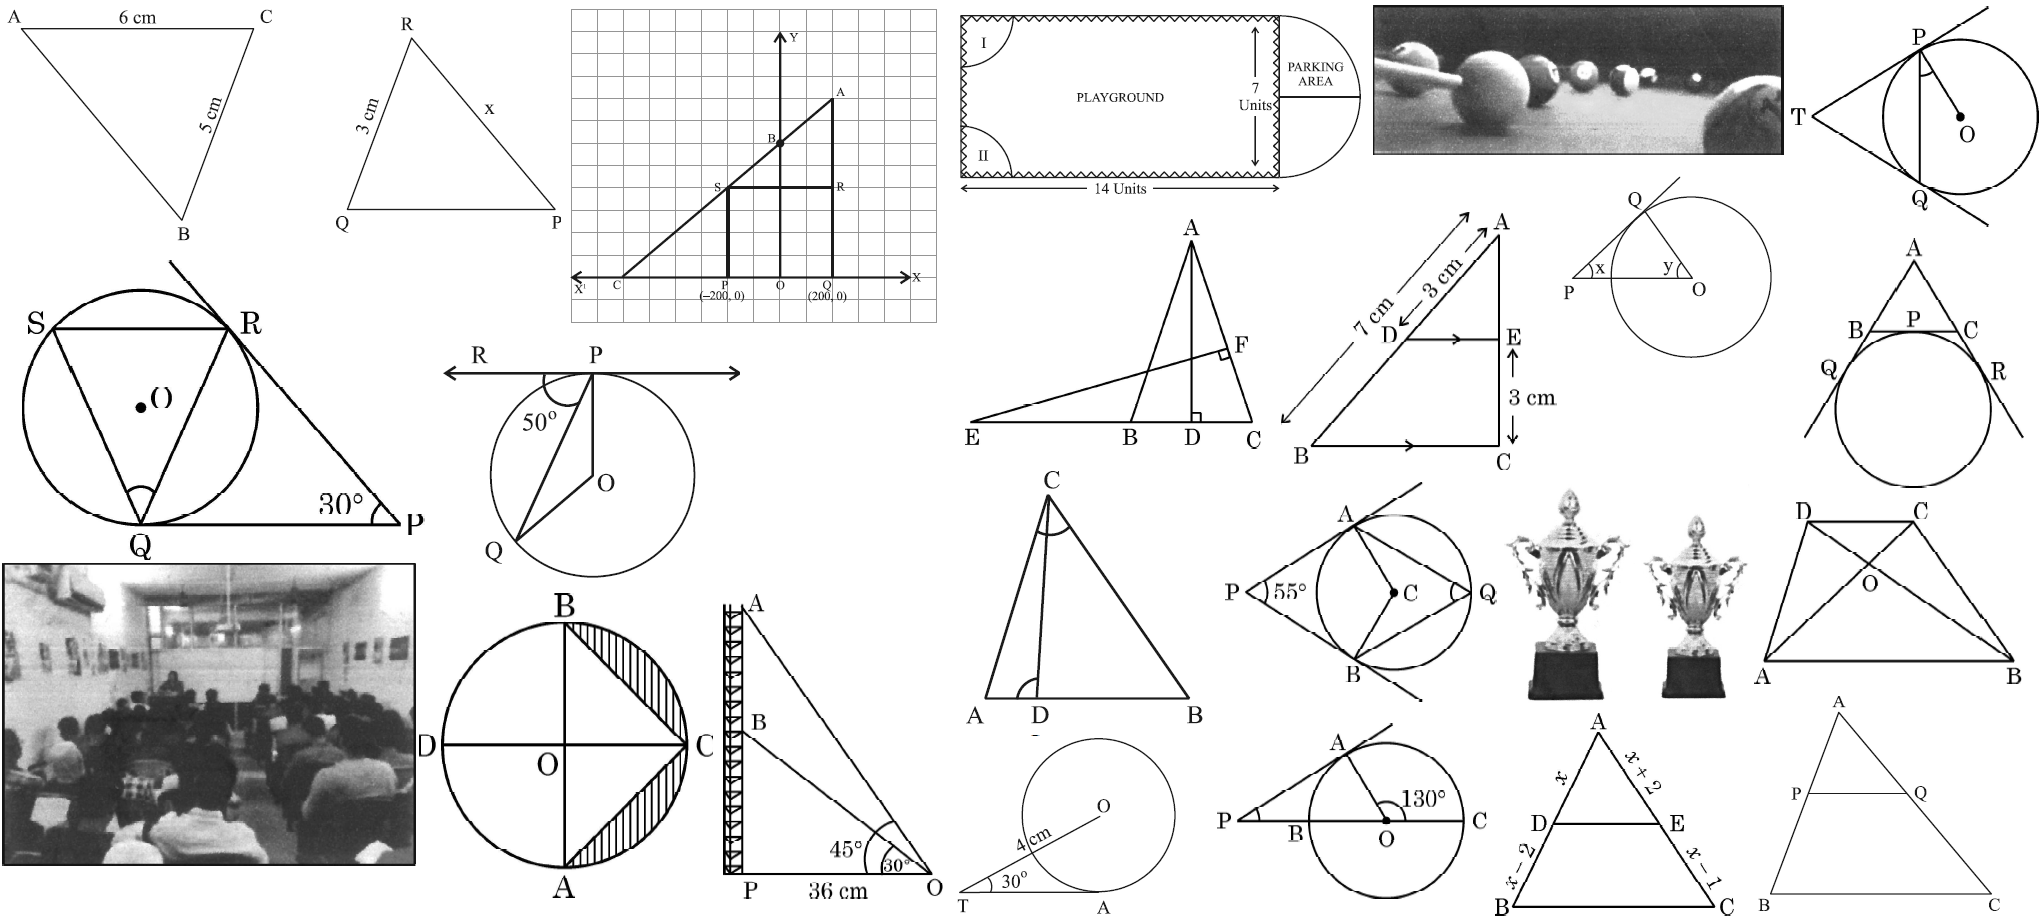
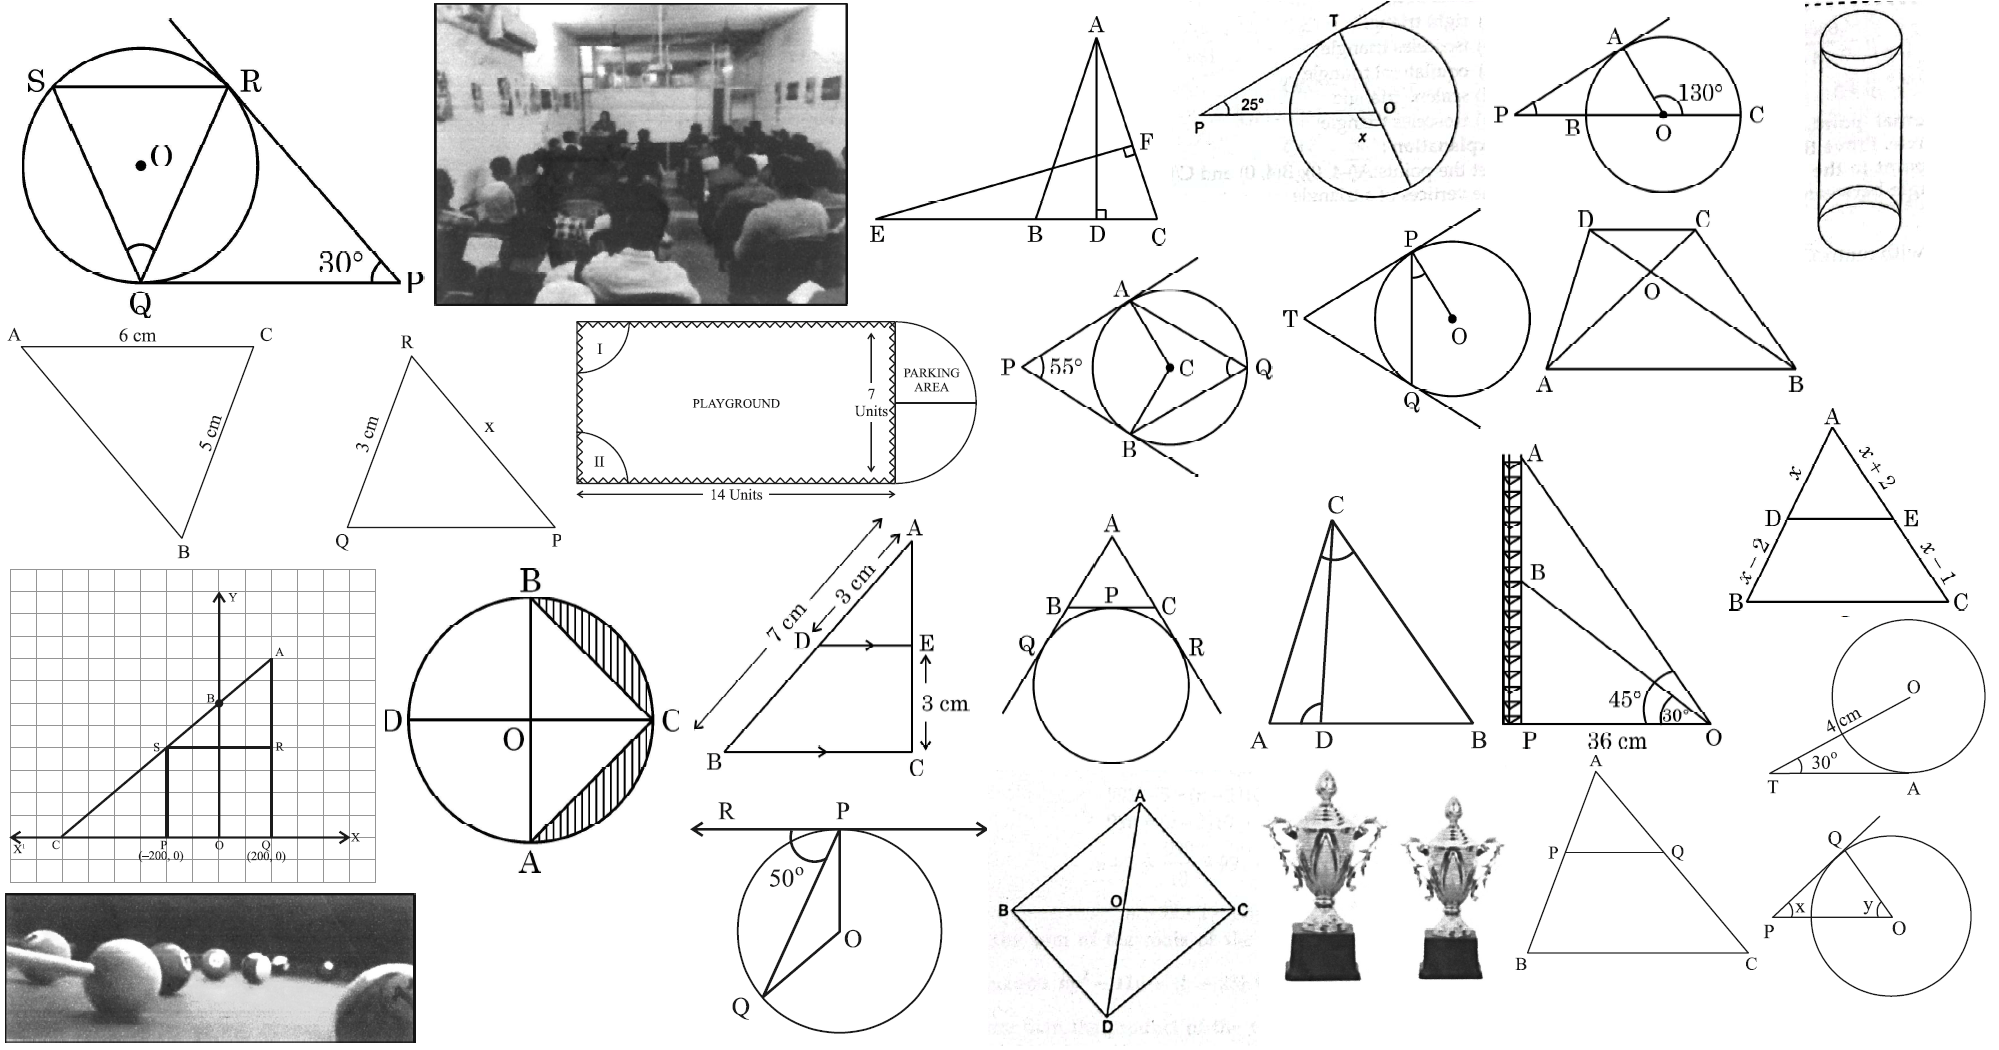
Fixed

diff --git a/img/cbse/previous/class10/maths/cbse_x_2023.css b/img/cbse/previous/class10/maths/cbse_x_2023.css
@@ -8,70 +8,79 @@ Responsive: <div class="yourspritesname"></div>
 
 
 .cbse_cl_10_mt_2023_ai_s1_10 {max-width:292px; max-height:274px; }
-.cbse_cl_10_mt_2023_ai_s1_10::after {content: '\00a0';display: inline-block; width:292px; height:274px; background-position: 72.44139508290452% 31.53013910355487%;background-size: 698.972602739726% 336.13138686131384%;background-image: url(cbse_x_2023.png);padding: 0; }
+.cbse_cl_10_mt_2023_ai_s1_10::after {content: '\00a0';display: inline-block; width:292px; height:274px; background-position: 39.835969537199766% 65.72164948453609%;background-size: 684.5890410958904% 383.2116788321168%;background-image: url(cbse_x_2023.png);padding: 0; }
 div.cbse_cl_10_mt_2023_ai_s1_10::after {max-width:292px; width:100%;height:0;padding: 0 0 93.83561643835617% 0;}
 .cbse_cl_10_mt_2023_ai_s1_14 {max-width:293px; max-height:227px; }
-.cbse_cl_10_mt_2023_ai_s1_14::after {content: '\00a0';display: inline-block; width:293px; height:227px; background-position: 69.16475972540046% 69.02017291066282%;background-size: 696.5870307167236% 405.726872246696%;background-image: url(cbse_x_2023.png);padding: 0; }
+.cbse_cl_10_mt_2023_ai_s1_14::after {content: '\00a0';display: inline-block; width:293px; height:227px; background-position: 57.737397420867524% 30.86269744835966%;background-size: 682.2525597269624% 462.55506607929516%;background-image: url(cbse_x_2023.png);padding: 0; }
 div.cbse_cl_10_mt_2023_ai_s1_14::after {max-width:293px; width:100%;height:0;padding: 0 0 77.47440273037543% 0;}
 .cbse_cl_10_mt_2023_ai_s1_24 {max-width:285px; max-height:200px; }
-.cbse_cl_10_mt_2023_ai_s1_24::after {content: '\00a0';display: inline-block; width:285px; height:200px; background-position: 68.84965831435079% 98.05825242718447%;background-size: 716.140350877193% 460.5%;background-image: url(cbse_x_2023.png);padding: 0; }
+.cbse_cl_10_mt_2023_ai_s1_24::after {content: '\00a0';display: inline-block; width:285px; height:200px; background-position: 86.69778296382731% 0.11764705882352941%;background-size: 701.4035087719299% 525%;background-image: url(cbse_x_2023.png);padding: 0; }
 div.cbse_cl_10_mt_2023_ai_s1_24::after {max-width:285px; width:100%;height:0;padding: 0 0 70.17543859649123% 0;}
 .cbse_cl_10_mt_2023_ai_s1_25_a {max-width:241px; max-height:211px; }
-.cbse_cl_10_mt_2023_ai_s1_25_a::after {content: '\00a0';display: inline-block; width:241px; height:211px; background-position: 83.05555555555556% 99.85915492957747%;background-size: 846.8879668049792% 436.49289099526067%;background-image: url(cbse_x_2023.png);padding: 0; }
+.cbse_cl_10_mt_2023_ai_s1_25_a::after {content: '\00a0';display: inline-block; width:241px; height:211px; background-position: 98.35039817974972% 48.152562574493444%;background-size: 829.4605809128631% 497.6303317535545%;background-image: url(cbse_x_2023.png);padding: 0; }
 div.cbse_cl_10_mt_2023_ai_s1_25_a::after {max-width:241px; width:100%;height:0;padding: 0 0 87.55186721991701% 0;}
 .cbse_cl_10_mt_2023_ai_s1_25_b {max-width:271px; max-height:201px; }
-.cbse_cl_10_mt_2023_ai_s1_25_b::after {content: '\00a0';display: inline-block; width:271px; height:201px; background-position: 98.92655367231639% 68.61111111111111%;background-size: 753.1365313653137% 458.2089552238806%;background-image: url(cbse_x_2023.png);padding: 0; }
+.cbse_cl_10_mt_2023_ai_s1_25_b::after {content: '\00a0';display: inline-block; width:271px; height:201px; background-position: 88.71527777777777% 23.792697290930505%;background-size: 737.6383763837638% 522.3880597014926%;background-image: url(cbse_x_2023.png);padding: 0; }
 div.cbse_cl_10_mt_2023_ai_s1_25_b::after {max-width:271px; width:100%;height:0;padding: 0 0 74.16974169741698% 0;}
 .cbse_cl_10_mt_2023_ai_s1_28 {max-width:320px; max-height:252px; }
-.cbse_cl_10_mt_2023_ai_s1_28::after {content: '\00a0';display: inline-block; width:320px; height:252px; background-position: 54.96804183614178% 30.493273542600896%;background-size: 637.8125% 365.4761904761905%;background-image: url(cbse_x_2023.png);padding: 0; }
+.cbse_cl_10_mt_2023_ai_s1_28::after {content: '\00a0';display: inline-block; width:320px; height:252px; background-position: 50.68493150684932% 0.12531328320802004%;background-size: 624.6875% 416.6666666666667%;background-image: url(cbse_x_2023.png);padding: 0; }
 div.cbse_cl_10_mt_2023_ai_s1_28::after {max-width:320px; width:100%;height:0;padding: 0 0 78.75% 0;}
 .cbse_cl_10_mt_2023_ai_s1_32_a {max-width:253px; max-height:232px; }
-.cbse_cl_10_mt_2023_ai_s1_32_a::after {content: '\00a0';display: inline-block; width:253px; height:232px; background-position: 99.9440715883669% 0.14513788098693758%;background-size: 806.7193675889328% 396.98275862068965%;background-image: url(cbse_x_2023.png);padding: 0; }
+.cbse_cl_10_mt_2023_ai_s1_32_a::after {content: '\00a0';display: inline-block; width:253px; height:232px; background-position: 73.25315005727377% 24.816625916870414%;background-size: 790.1185770750989% 452.58620689655174%;background-image: url(cbse_x_2023.png);padding: 0; }
 div.cbse_cl_10_mt_2023_ai_s1_32_a::after {max-width:253px; width:100%;height:0;padding: 0 0 91.699604743083% 0;}
 .cbse_cl_10_mt_2023_ai_s1_32_b {max-width:260px; max-height:259px; }
-.cbse_cl_10_mt_2023_ai_s1_32_b::after {content: '\00a0';display: inline-block; width:260px; height:259px; background-position: 99.66311061201573% 35.34743202416919%;background-size: 785% 355.5984555984556%;background-image: url(cbse_x_2023.png);padding: 0; }
+.cbse_cl_10_mt_2023_ai_s1_32_b::after {content: '\00a0';display: inline-block; width:260px; height:259px; background-position: 55.951696377228295% 64.47534766118837%;background-size: 768.8461538461538% 405.4054054054054%;background-image: url(cbse_x_2023.png);padding: 0; }
 div.cbse_cl_10_mt_2023_ai_s1_32_b::after {max-width:260px; width:100%;height:0;padding: 0 0 99.61538461538461% 0;}
 .cbse_cl_10_mt_2023_ai_s1_36 {max-width:417px; max-height:305px; }
-.cbse_cl_10_mt_2023_ai_s1_36::after {content: '\00a0';display: inline-block; width:417px; height:305px; background-position: 0.06157635467980296% 91.07142857142857%;background-size: 489.4484412470024% 301.9672131147541%;background-image: url(cbse_x_2023.png);padding: 0; }
+.cbse_cl_10_mt_2023_ai_s1_36::after {content: '\00a0';display: inline-block; width:417px; height:305px; background-position: 27.370417193426043% 0.1342281879194631%;background-size: 479.3764988009592% 344.26229508196724%;background-image: url(cbse_x_2023.png);padding: 0; }
 div.cbse_cl_10_mt_2023_ai_s1_36::after {max-width:417px; width:100%;height:0;padding: 0 0 73.14148681055156% 0;}
 .cbse_cl_10_mt_2023_ai_s1_37 {max-width:235px; max-height:318px; }
-.cbse_cl_10_mt_2023_ai_s1_37::after {content: '\00a0';display: inline-block; width:235px; height:318px; background-position: 39.53488372093023% 97.18076285240464%;background-size: 868.5106382978723% 289.62264150943395%;background-image: url(cbse_x_2023.png);padding: 0; }
+.cbse_cl_10_mt_2023_ai_s1_37::after {content: '\00a0';display: inline-block; width:235px; height:318px; background-position: 84.63718820861678% 59.56284153005465%;background-size: 850.6382978723404% 330.188679245283%;background-image: url(cbse_x_2023.png);padding: 0; }
 div.cbse_cl_10_mt_2023_ai_s1_37::after {max-width:235px; width:100%;height:0;padding: 0 0 135.31914893617022% 0;}
 .cbse_cl_10_mt_2023_ai_s1_38 {max-width:417px; max-height:160px; }
-.cbse_cl_10_mt_2023_ai_s1_38::after {content: '\00a0';display: inline-block; width:417px; height:160px; background-position: 84.29802955665025% 0.1314060446780552%;background-size: 489.4484412470024% 575.625%;background-image: url(cbse_x_2023.png);padding: 0; }
+.cbse_cl_10_mt_2023_ai_s1_38::after {content: '\00a0';display: inline-block; width:417px; height:160px; background-position: 0.0632111251580278% 99.88764044943821%;background-size: 479.3764988009592% 656.25%;background-image: url(cbse_x_2023.png);padding: 0; }
 div.cbse_cl_10_mt_2023_ai_s1_38::after {max-width:417px; width:100%;height:0;padding: 0 0 38.36930455635492% 0;}
 .cbse_cl_10_mt_2023_ai_s2_8 {max-width:294px; max-height:315px; }
-.cbse_cl_10_mt_2023_ai_s2_8::after {content: '\00a0';display: inline-block; width:294px; height:315px; background-position: 23.983972524327417% 96.6996699669967%;background-size: 694.2176870748299% 292.3809523809524%;background-image: url(cbse_x_2023.png);padding: 0; }
+.cbse_cl_10_mt_2023_ai_s2_8::after {content: '\00a0';display: inline-block; width:294px; height:315px; background-position: 22.580645161290324% 76.3265306122449%;background-size: 679.9319727891157% 333.3333333333333%;background-image: url(cbse_x_2023.png);padding: 0; }
 div.cbse_cl_10_mt_2023_ai_s2_8::after {max-width:294px; width:100%;height:0;padding: 0 0 107.14285714285714% 0;}
 .cbse_cl_10_mt_2023_ai_s3_11 {max-width:431px; max-height:317px; }
-.cbse_cl_10_mt_2023_ai_s3_11::after {content: '\00a0';display: inline-block; width:431px; height:317px; background-position: 0.062111801242236024% 40.2317880794702%;background-size: 473.54988399071925% 290.5362776025237%;background-image: url(cbse_x_2023.png);padding: 0; }
+.cbse_cl_10_mt_2023_ai_s3_11::after {content: '\00a0';display: inline-block; width:431px; height:317px; background-position: 0.06377551020408163% 0.1364256480218281%;background-size: 463.8051044083527% 331.2302839116719%;background-image: url(cbse_x_2023.png);padding: 0; }
 div.cbse_cl_10_mt_2023_ai_s3_11::after {max-width:431px; width:100%;height:0;padding: 0 0 73.54988399071925% 0;}
 .cbse_cl_10_mt_2023_dl_s1_12 {max-width:560px; max-height:241px; }
-.cbse_cl_10_mt_2023_dl_s1_12::after {content: '\00a0';display: inline-block; width:560px; height:241px; background-position: 0.0675219446320054% 0.14705882352941177%;background-size: 364.4642857142857% 382.15767634854774%;background-image: url(cbse_x_2023.png);padding: 0; }
+.cbse_cl_10_mt_2023_dl_s1_12::after {content: '\00a0';display: inline-block; width:560px; height:241px; background-position: 0.06949270326615706% 39.431396786155744%;background-size: 356.9642857142857% 435.6846473029046%;background-image: url(cbse_x_2023.png);padding: 0; }
 div.cbse_cl_10_mt_2023_dl_s1_12::after {max-width:560px; width:100%;height:0;padding: 0 0 43.035714285714285% 0;}
 .cbse_cl_10_mt_2023_dl_s1_14 {max-width:214px; max-height:201px; }
-.cbse_cl_10_mt_2023_dl_s1_14::after {content: '\00a0';display: inline-block; width:214px; height:201px; background-position: 85.38587848932677% 22.5%;background-size: 953.7383177570093% 458.2089552238806%;background-image: url(cbse_x_2023.png);padding: 0; }
+.cbse_cl_10_mt_2023_dl_s1_14::after {content: '\00a0';display: inline-block; width:214px; height:201px; background-position: 98.59943977591037% 94.34628975265018%;background-size: 934.1121495327103% 522.3880597014926%;background-image: url(cbse_x_2023.png);padding: 0; }
 div.cbse_cl_10_mt_2023_dl_s1_14::after {max-width:214px; width:100%;height:0;padding: 0 0 93.92523364485982% 0;}
 .cbse_cl_10_mt_2023_dl_s1_15 {max-width:238px; max-height:184px; }
-.cbse_cl_10_mt_2023_dl_s1_15::after {content: '\00a0';display: inline-block; width:238px; height:184px; background-position: 52.689961175818084% 99.72862957937585%;background-size: 857.563025210084% 500.54347826086956%;background-image: url(cbse_x_2023.png);padding: 0; }
+.cbse_cl_10_mt_2023_dl_s1_15::after {content: '\00a0';display: inline-block; width:238px; height:184px; background-position: 99.94321408290745% 71.13163972286374%;background-size: 839.9159663865546% 570.6521739130435%;background-image: url(cbse_x_2023.png);padding: 0; }
 div.cbse_cl_10_mt_2023_dl_s1_15::after {max-width:238px; width:100%;height:0;padding: 0 0 77.3109243697479% 0;}
 .cbse_cl_10_mt_2023_dl_s1_16 {max-width:251px; max-height:217px; }
-.cbse_cl_10_mt_2023_dl_s1_16::after {content: '\00a0';display: inline-block; width:251px; height:217px; background-position: 97.82122905027933% 98.86363636363636%;background-size: 813.1474103585657% 424.42396313364054%;background-image: url(cbse_x_2023.png);padding: 0; }
+.cbse_cl_10_mt_2023_dl_s1_16::after {content: '\00a0';display: inline-block; width:251px; height:217px; background-position: 86.2700228832952% 90.63625450180072%;background-size: 796.4143426294821% 483.8709677419355%;background-image: url(cbse_x_2023.png);padding: 0; }
 div.cbse_cl_10_mt_2023_dl_s1_16::after {max-width:251px; width:100%;height:0;padding: 0 0 86.45418326693228% 0;}
 .cbse_cl_10_mt_2023_dl_s1_36 {max-width:247px; max-height:229px; }
-.cbse_cl_10_mt_2023_dl_s1_36::after {content: '\00a0';display: inline-block; width:247px; height:229px; background-position: 83.77926421404682% 69.21965317919076%;background-size: 826.3157894736842% 402.1834061135371%;background-image: url(cbse_x_2023.png);padding: 0; }
+.cbse_cl_10_mt_2023_dl_s1_36::after {content: '\00a0';display: inline-block; width:247px; height:229px; background-position: 71.91780821917808% 92.5700365408039%;background-size: 809.3117408906883% 458.51528384279476%;background-image: url(cbse_x_2023.png);padding: 0; }
 div.cbse_cl_10_mt_2023_dl_s1_36::after {max-width:247px; width:100%;height:0;padding: 0 0 92.71255060728745% 0;}
 .cbse_cl_10_mt_2023_dl_s1_37 {max-width:383px; max-height:327px; }
-.cbse_cl_10_mt_2023_dl_s1_37::after {content: '\00a0';display: inline-block; width:383px; height:327px; background-position: 33.8962605548854% 0.16835016835016836%;background-size: 532.8981723237598% 281.651376146789%;background-image: url(cbse_x_2023.png);padding: 0; }
+.cbse_cl_10_mt_2023_dl_s1_37::after {content: '\00a0';display: inline-block; width:383px; height:327px; background-position: 0.06188118811881188% 77.59336099585062%;background-size: 521.9321148825065% 321.10091743119267%;background-image: url(cbse_x_2023.png);padding: 0; }
 div.cbse_cl_10_mt_2023_dl_s1_37::after {max-width:383px; width:100%;height:0;padding: 0 0 85.37859007832898% 0;}
 .cbse_cl_10_mt_2023_dl_s1_38 {max-width:422px; max-height:202px; }
-.cbse_cl_10_mt_2023_dl_s1_38::after {content: '\00a0';display: inline-block; width:422px; height:202px; background-position: 58.43113032736257% 0.13908205841446453%;background-size: 483.6492890995261% 455.94059405940595%;background-image: url(cbse_x_2023.png);padding: 0; }
+.cbse_cl_10_mt_2023_dl_s1_38::after {content: '\00a0';display: inline-block; width:422px; height:202px; background-position: 35.63728598604946% 36.20283018867924%;background-size: 473.69668246445497% 519.8019801980198%;background-image: url(cbse_x_2023.png);padding: 0; }
 div.cbse_cl_10_mt_2023_dl_s1_38::after {max-width:422px; width:100%;height:0;padding: 0 0 47.867298578199055% 0;}
 .cbse_cl_10_mt_2023_dl_s2_11 {max-width:258px; max-height:277px; }
-.cbse_cl_10_mt_2023_dl_s2_11::after {content: '\00a0';display: inline-block; width:258px; height:277px; background-position: 53.28098710039259% 70.96273291925466%;background-size: 791.0852713178294% 332.4909747292419%;background-image: url(cbse_x_2023.png);padding: 0; }
+.cbse_cl_10_mt_2023_dl_s2_11::after {content: '\00a0';display: inline-block; width:258px; height:277px; background-position: 70.87880528431936% 62.35446313065977%;background-size: 774.8062015503876% 379.0613718411552%;background-image: url(cbse_x_2023.png);padding: 0; }
 div.cbse_cl_10_mt_2023_dl_s2_11::after {max-width:258px; width:100%;height:0;padding: 0 0 107.36434108527132% 0;}
 .cbse_cl_10_mt_2023_dl_s2_5 {max-width:307px; max-height:256px; }
-.cbse_cl_10_mt_2023_dl_s2_5::after {content: '\00a0';display: inline-block; width:307px; height:256px; background-position: 24.97116493656286% 49.473684210526315%;background-size: 664.8208469055375% 359.765625%;background-image: url(cbse_x_2023.png);padding: 0; }
+.cbse_cl_10_mt_2023_dl_s2_5::after {content: '\00a0';display: inline-block; width:307px; height:256px; background-position: 40.189125295508276% 98.86649874055415%;background-size: 651.1400651465798% 410.15625%;background-image: url(cbse_x_2023.png);padding: 0; }
 div.cbse_cl_10_mt_2023_dl_s2_5::after {max-width:307px; width:100%;height:0;padding: 0 0 83.38762214983713% 0;}
+.cbse_cl_10_mt_2023_dl_s3_10 {max-width:271px; max-height:276px; }
+.cbse_cl_10_mt_2023_dl_s3_10::after {content: '\00a0';display: inline-block; width:271px; height:276px; background-position: 57.175925925925924% 99.48320413436693%;background-size: 737.6383763837638% 380.4347826086956%;background-image: url(cbse_x_2023.png);padding: 0; }
+div.cbse_cl_10_mt_2023_dl_s3_10::after {max-width:271px; width:100%;height:0;padding: 0 0 101.8450184501845% 0;}
+.cbse_cl_10_mt_2023_dl_s3_11 {max-width:119px; max-height:261px; }
+.cbse_cl_10_mt_2023_dl_s3_11::after {content: '\00a0';display: inline-block; width:119px; height:261px; background-position: 96.01063829787235% 0.1267427122940431%;background-size: 1679.8319327731092% 402.2988505747126%;background-image: url(cbse_x_2023.png);padding: 0; }
+div.cbse_cl_10_mt_2023_dl_s3_11::after {max-width:119px; width:100%;height:0;padding: 0 0 219.32773109243698% 0;}
+.cbse_cl_10_mt_2023_dl_s3_4 {max-width:313px; max-height:201px; }
+.cbse_cl_10_mt_2023_dl_s3_4::after {content: '\00a0';display: inline-block; width:313px; height:201px; background-position: 69.51364175563464% 0.11778563015312132%;background-size: 638.6581469648562% 522.3880597014926%;background-image: url(cbse_x_2023.png);padding: 0; }
+div.cbse_cl_10_mt_2023_dl_s3_4::after {max-width:313px; width:100%;height:0;padding: 0 0 64.21725239616613% 0;}
 
-/* $TexturePacker:SmartUpdate:d46b5d2ab01fae702374b49e8fc84e6f:3fa6999af92c46e62f184b6ad2594d20:9b0f00339c8532baa58990c512ce544e$ */
+/* $TexturePacker:SmartUpdate:1415ed570df38b5f24a57914acbdc19b:75fe2da494d1e6f0120d6621aad1fe9a:9b0f00339c8532baa58990c512ce544e$ */
